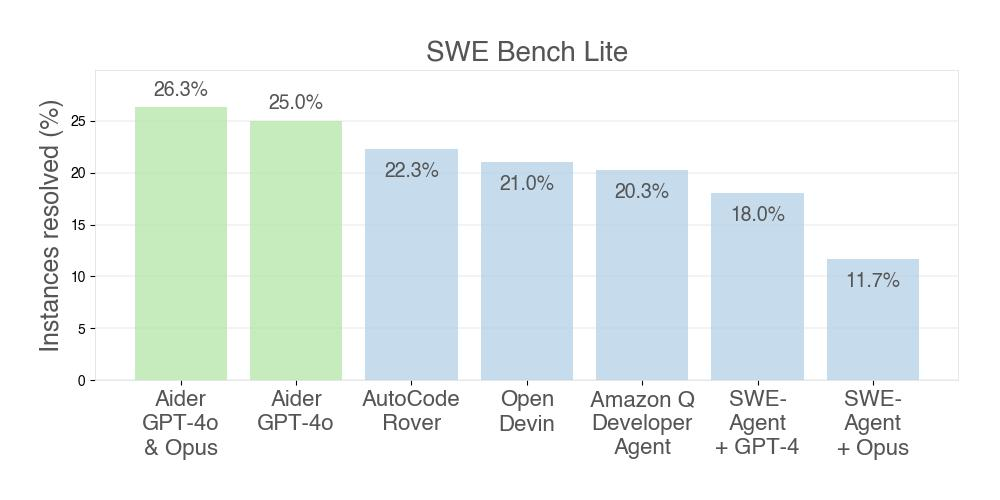
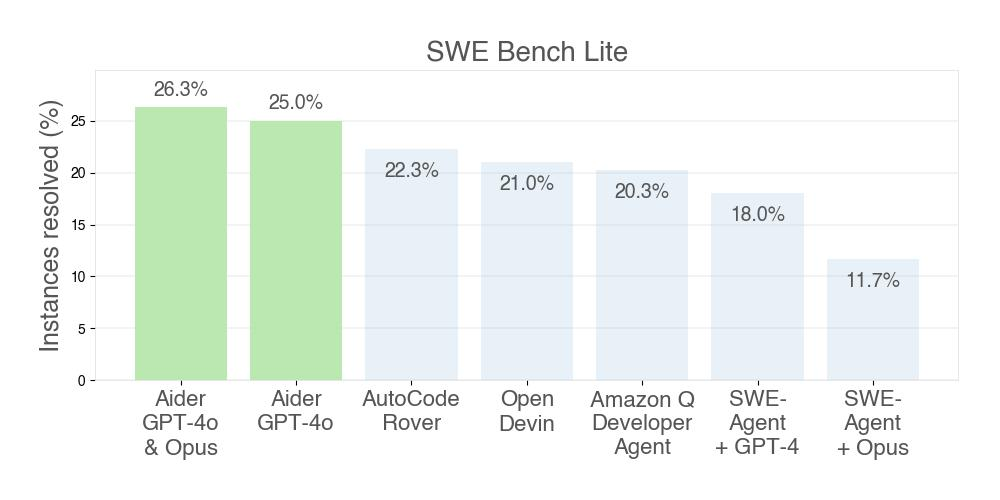
copy

Changed region(s): [[0.341, 0.3, 0.93, 0.78]]

diff --git a/benchmark/swe_bench_lite.py b/benchmark/swe_bench_lite.py
@@ -34,7 +34,7 @@ def plot_swe_bench_lite(data_file):
     colors = ["#b3e6a8" if "Aider" in model else "#b3d1e6" for model in models]
     bars = []
     for model, pass_rate, color in zip(models, pass_rates, colors):
-        alpha = 0.9 if "Aider" in model else 0.5
+        alpha = 0.9 if "Aider" in model else 0.3
         bar = ax.bar(model, pass_rate, color=color, alpha=alpha, zorder=3)
         bars.append(bar[0])
 
